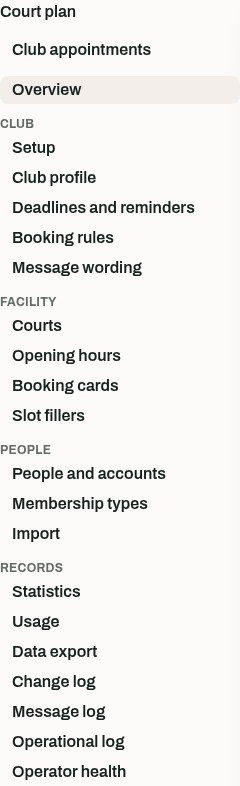
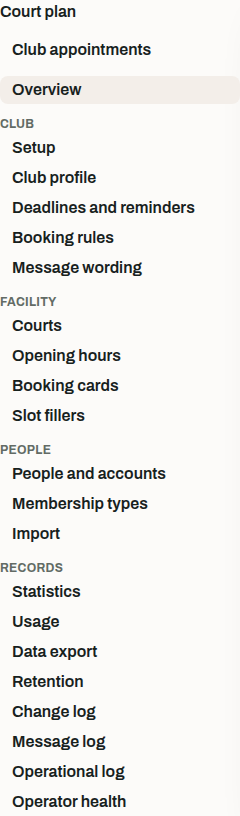
test(frontend): draw the whole administration navigation for the guides
The navigation now scrolls within its frame once it is taller than the window, which the eighth
records destination makes it at the guides' 1000 pixel window. The guide capture grows the window
by exactly what the frame would scroll, so a board sees every destination, and returns it before
the next capture. The regression baseline keeps the window and shows the scrolling frame.

Changed region(s): [[0.0, 0.0, 0.8167, 1.0]]

diff --git a/frontend/e2e/guide-screenshots.spec.ts b/frontend/e2e/guide-screenshots.spec.ts
@@ -129,6 +129,7 @@ const drivers: Record<string, (page: Page, visualDate: string) => Promise<void>>
   "admin-navigation": async (page) => {
     await page.getByTestId("administration-link").click();
     await expectAdministrationOverview(page);
+    await showTheWholeNavigation(page);
   },
   // The bar appears only once something is unsaved, so a renamed court brings it on screen.
   "save-bar": async (page) => {
@@ -451,10 +452,22 @@ async function prepare(page: Page, locale: string): Promise<void> {
 async function capture(page: Page, name: string, visualDate: string): Promise<void> {
   const declared = catalogue.captures.find((entry) => entry.name === name);
   if (declared === undefined) throw new Error(`No catalogue entry for ${name}`);
+  const size = page.viewportSize();
   await drivers[name](page, visualDate);
   const surface = page.getByTestId(declared.surface);
   await surface.page().evaluate(() => document.fonts.ready);
   await expect(surface).toHaveScreenshot(`${name}.png`, { animations: "disabled", caret: "hide" });
+  if (size !== null) await page.setViewportSize(size);
+}
+
+// A guide shows every destination, so the window grows by what the navigation's own frame would scroll.
+async function showTheWholeNavigation(page: Page): Promise<void> {
+  const frame = page.getByTestId("admin-navigation-frame");
+  const hidden = () => frame.evaluate((element) => element.scrollHeight - element.clientHeight);
+  const size = page.viewportSize();
+  const overflow = await hidden();
+  if (size !== null && overflow > 0) await page.setViewportSize({ width: size.width, height: size.height + overflow });
+  await expect.poll(hidden, { message: "every destination is in the picture", timeout: 10_000 }).toBe(0);
 }
 
 // A one-time password leads to the page that replaces it and nowhere else, so what the sign-in
